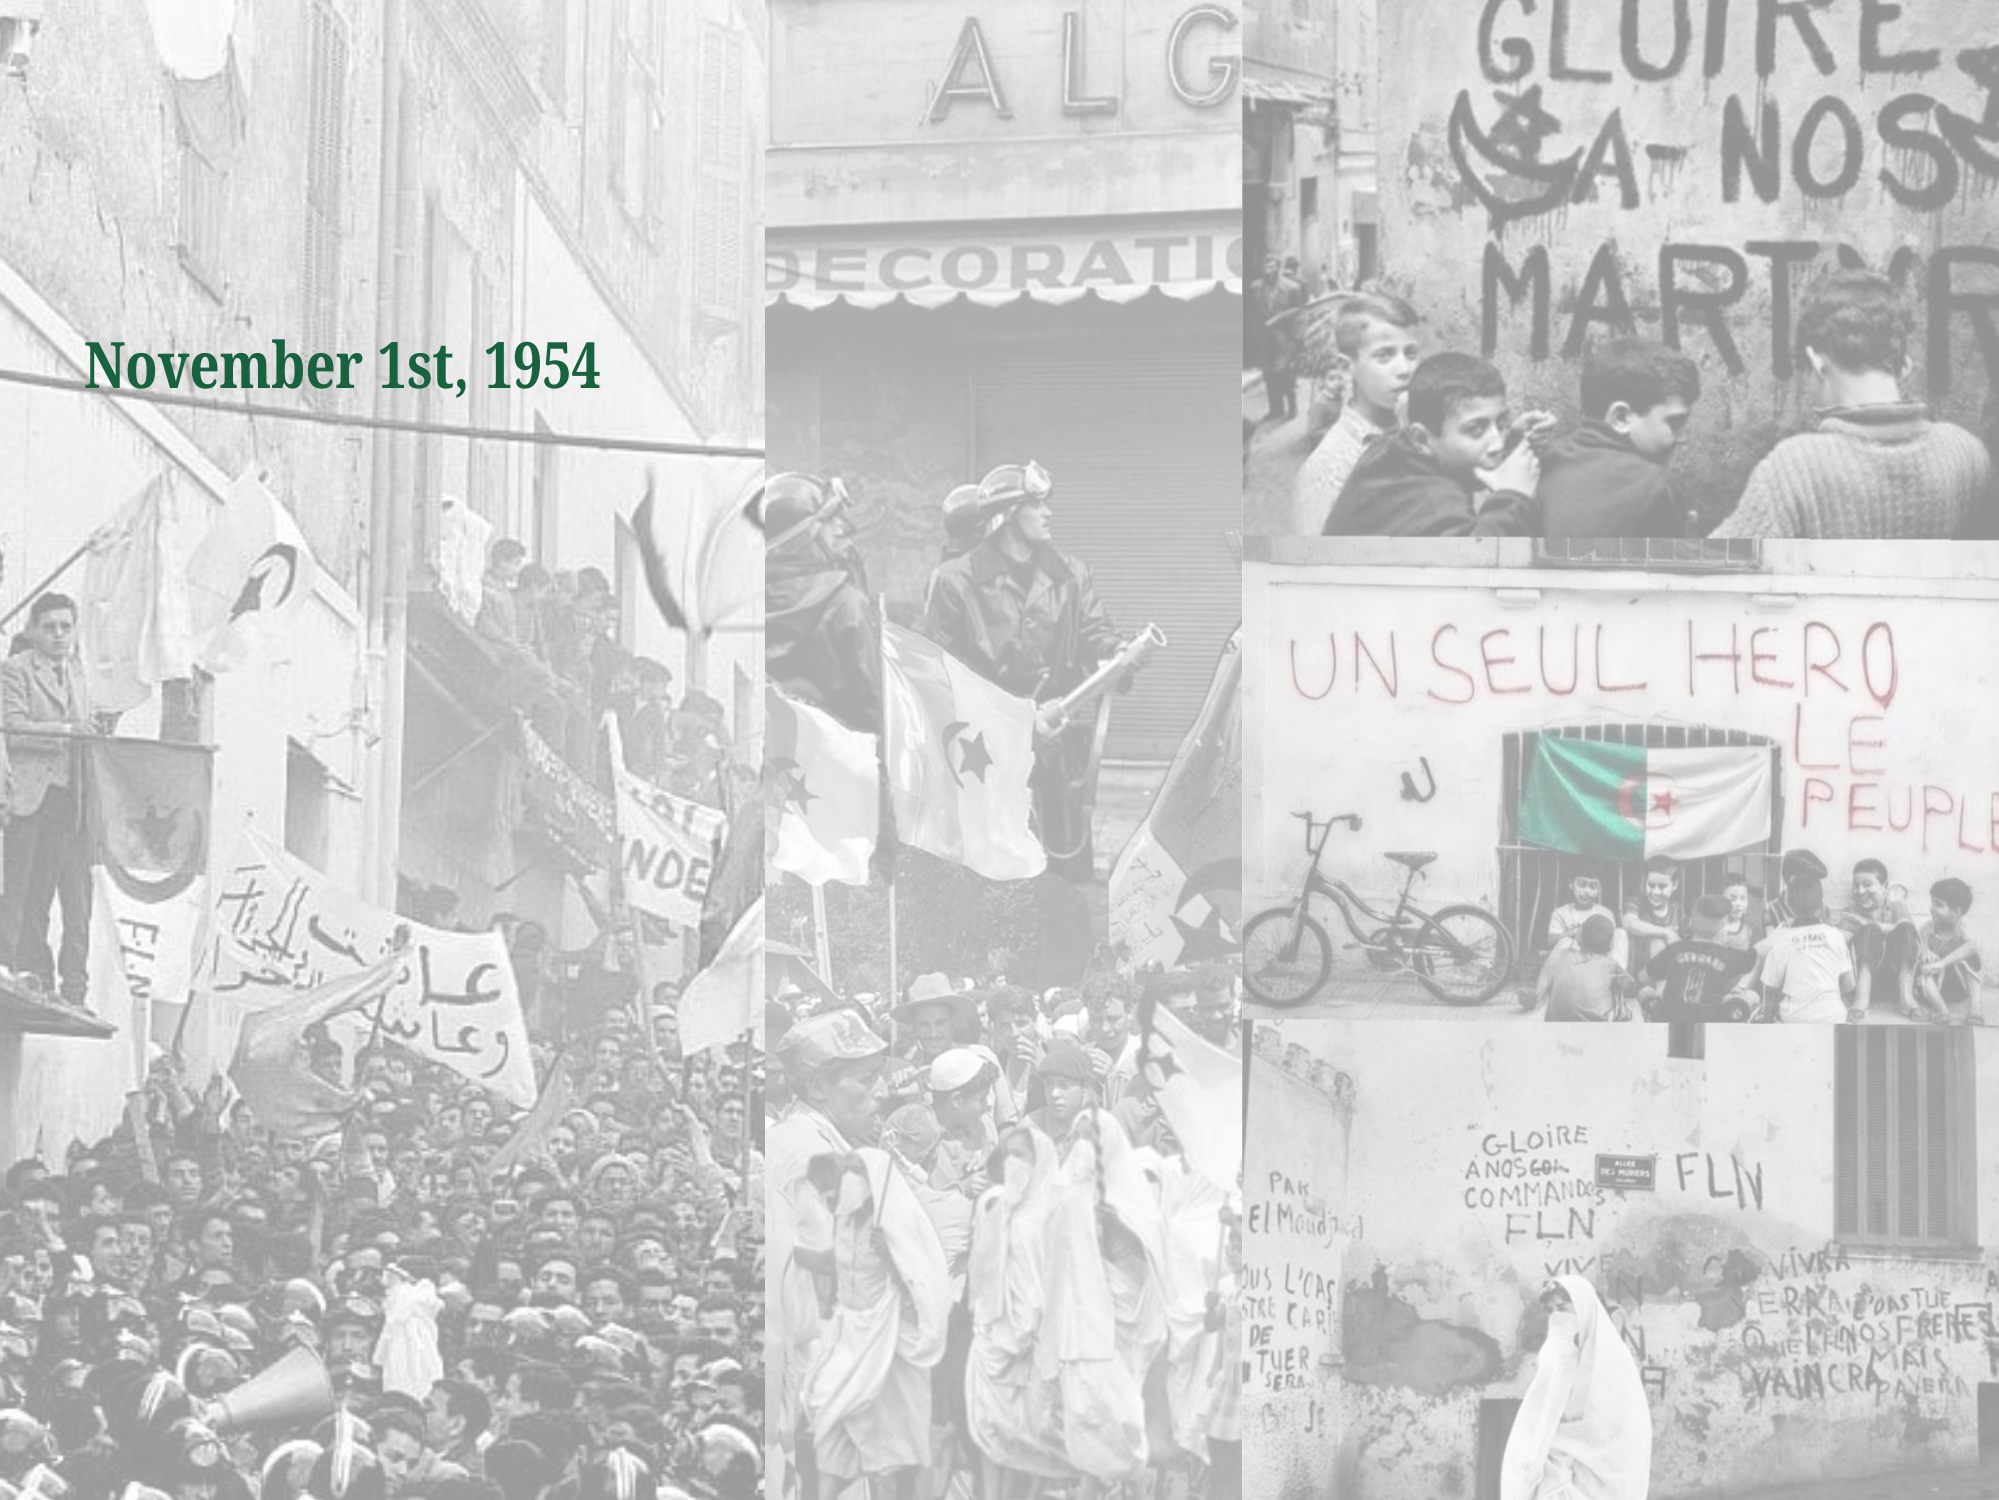
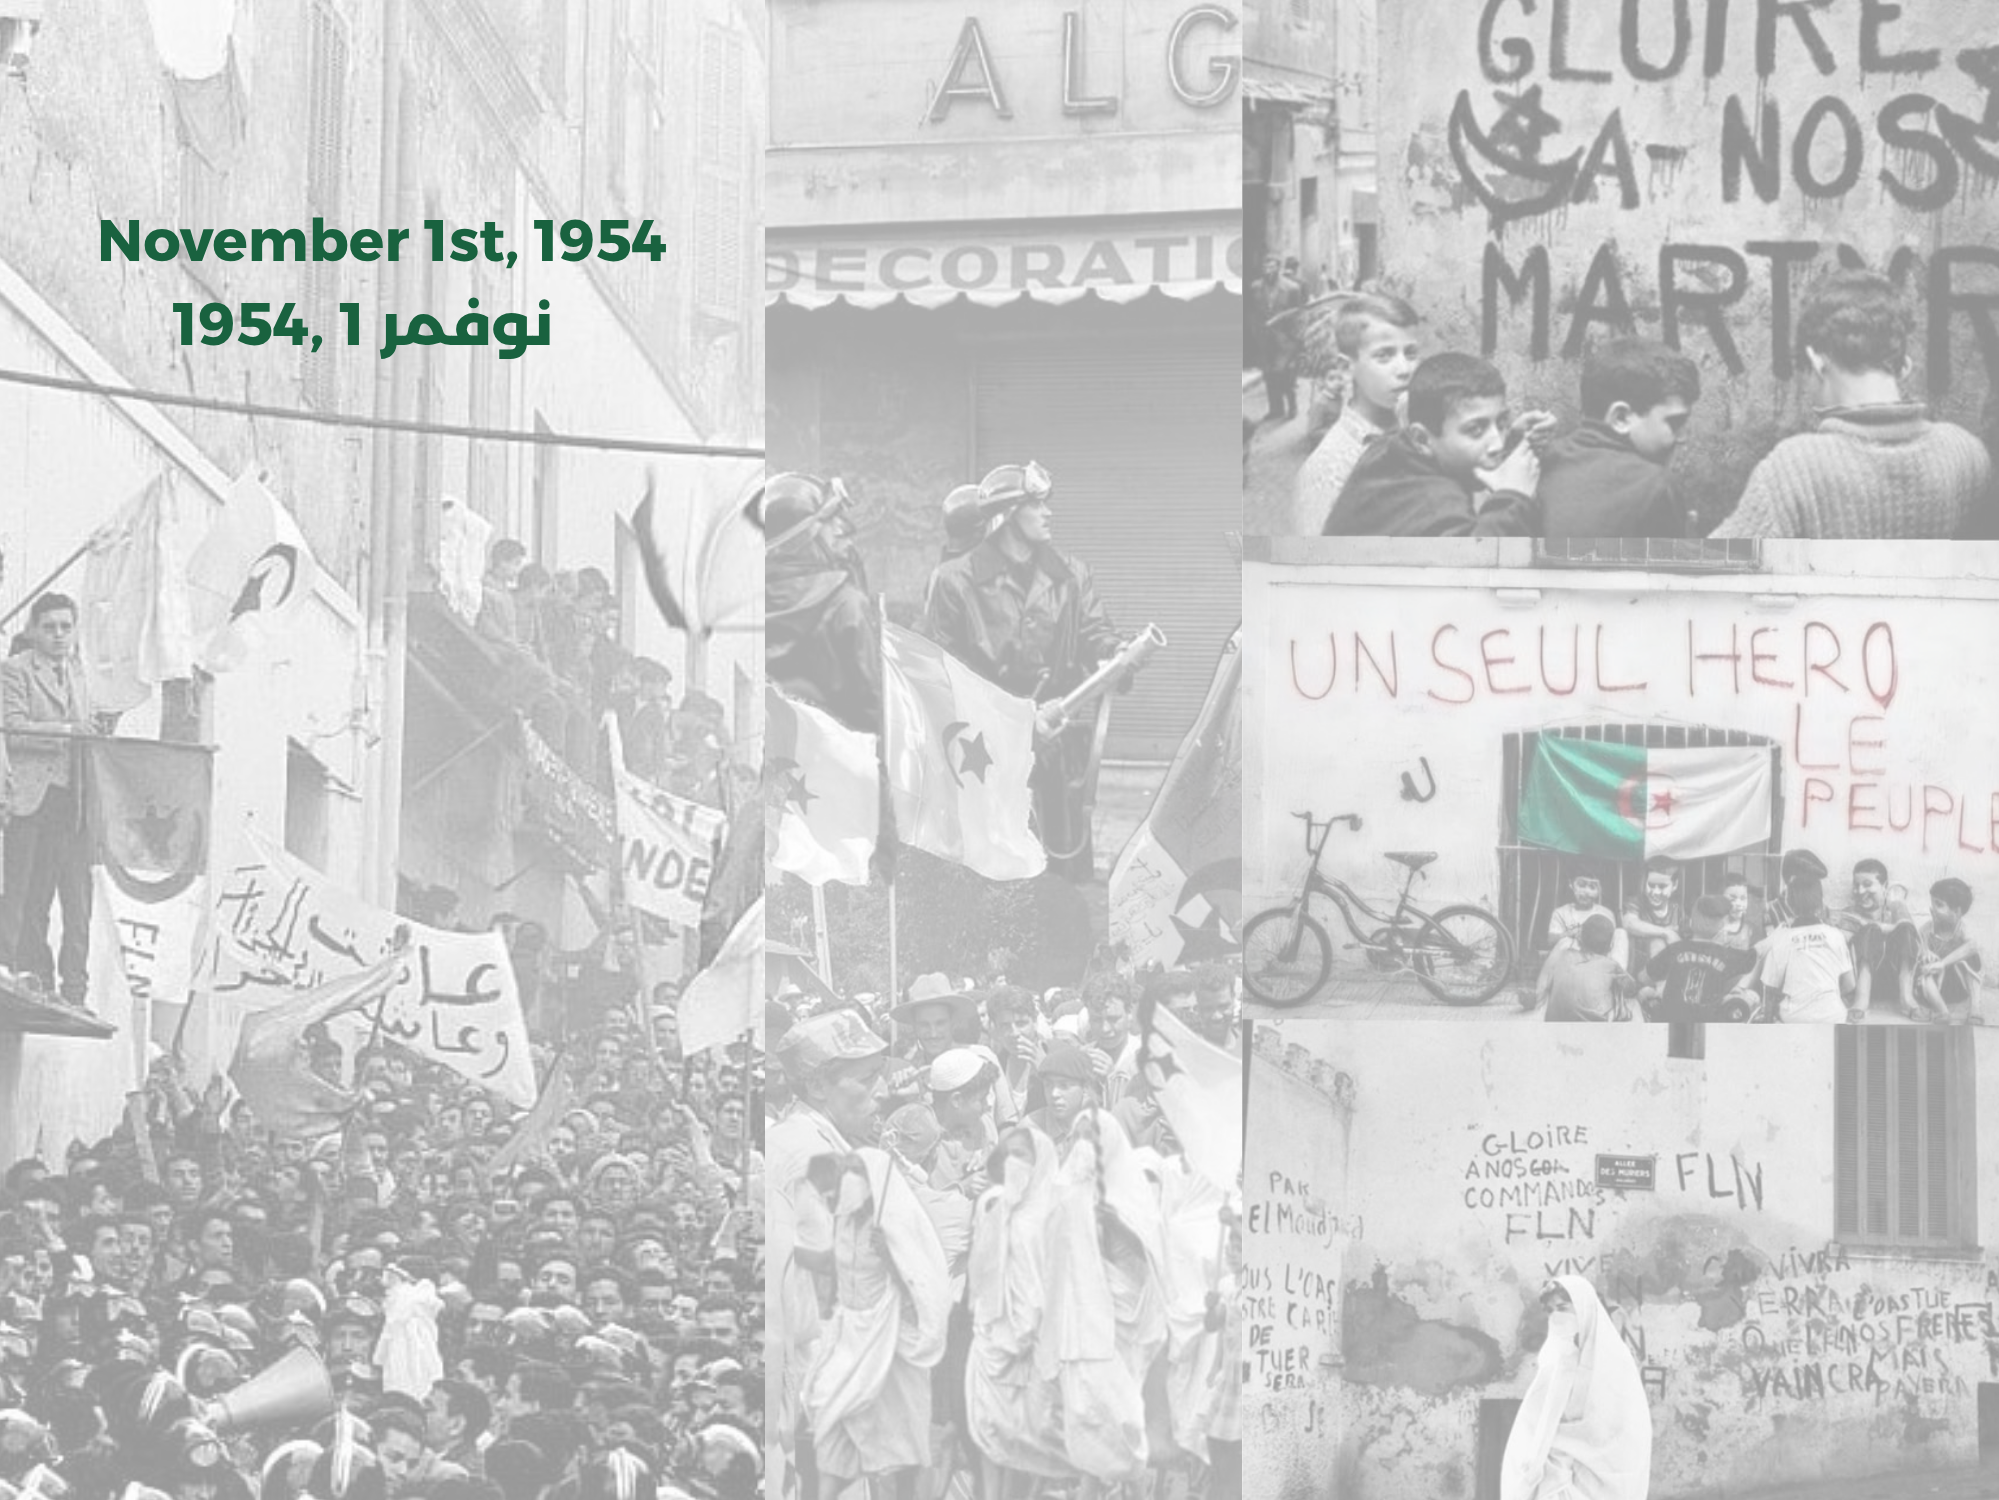
Add files via upload

Changed region(s): [[0.031, 0.1227, 0.3412, 0.276]]

diff --git a/index.html b/index.html
@@ -22,7 +22,15 @@ body {
   background-repeat: no-repeat;
   background-color: #edeff1;
   color: #000;
-}
+  }
+
+@media (max-width: 600px) {
+  body {
+    background-image: url('background2.jpg');
+    background-size: cover;
+    background-position: center;
+    background-repeat: no-repeat;}
+  }
 
 /* خلفية زخرفية */
 .bg-pattern{
@@ -56,14 +64,14 @@ body {
 
 /* الحاوية */
 .container{
-  max-width:480px;
-  margin:40px auto;
-  padding:20px;
+  max-width:400px;
+  margin:30px auto;
+  padding:15px;
 }
 
 /* البطاقة */
 .card{
-  background:rgb(255,255,255,0.8);
+  background:rgb(255,255,255,0.4);
   border-radius:20px;
   padding:28px;
   box-shadow:0 20px 60px rgba(0,0,0,.2);
@@ -73,7 +81,7 @@ body {
 .title{
   text-align:center;
   margin:10px 0 5px;
-  font-size:26px;
+  font-size:22px;
   font-weight:700;
 }
 
@@ -81,6 +89,7 @@ body {
   text-align:center;
   opacity:.8;
   margin-bottom:18px;
+  font-size: 14px;
 }
 
 /* صورة الإفطار */
@@ -165,19 +174,13 @@ button:hover{
 <div class="container">
   <div class="card">
     <img src="logo.png" class="hero" alt="Iftar">
-    
     <div class="title" id="title">The 72nd anniversary of the outbreak of the Algerian Revolution</div>
-    
     <!--button class="lang" onclick="toggleLang()">🌐 عربي / English</button>-->
-
     <div class="title" id="title">
     <span class="note">Note:</span>
-    <br>
-    Maximum 1 guests per registration, subject to space availability.<br>
+    <br>Maximum 1 guests per registration, subject to space availability.<br>
     </div>
-
     <div id="status" class="status">Loading...</div>
-
     <form id="form">
       <input id="firstName" required placeholder="First Name">
       <input id="lastName" required placeholder="Last Name">
